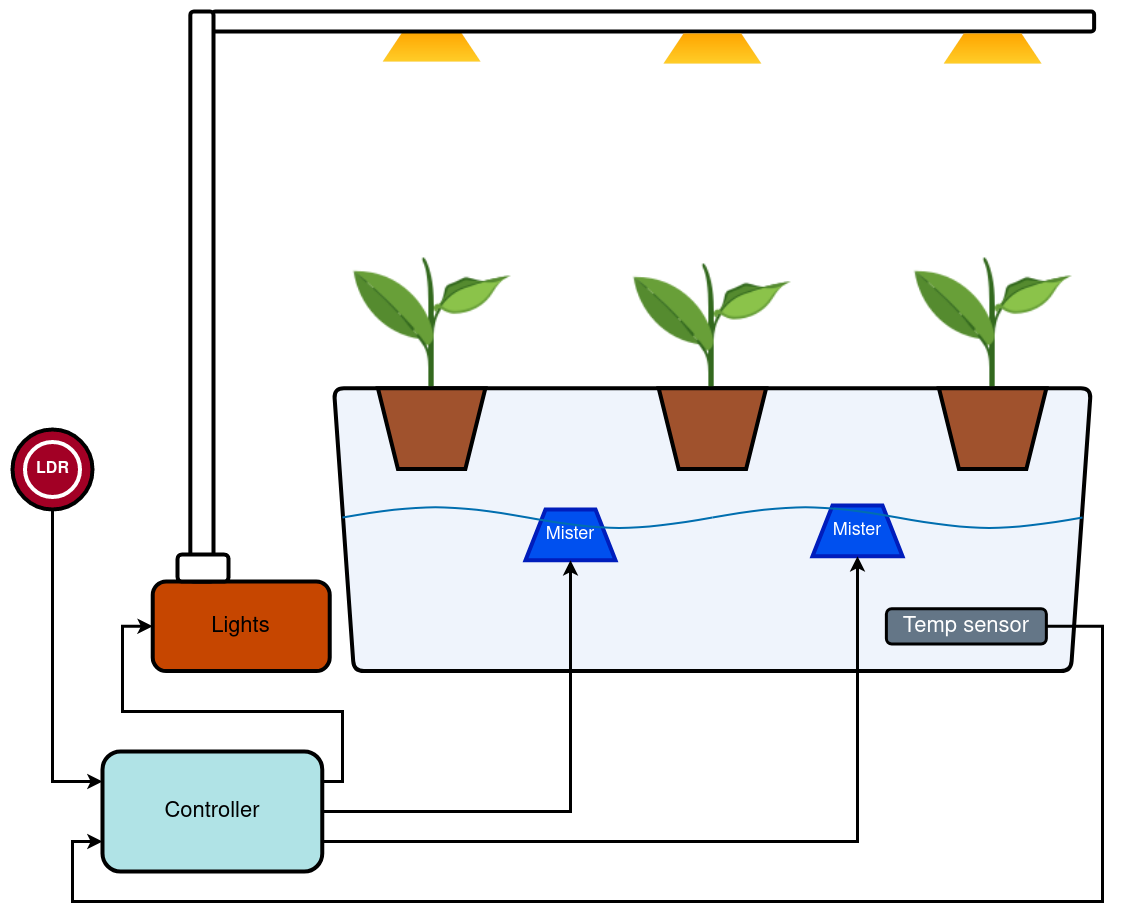
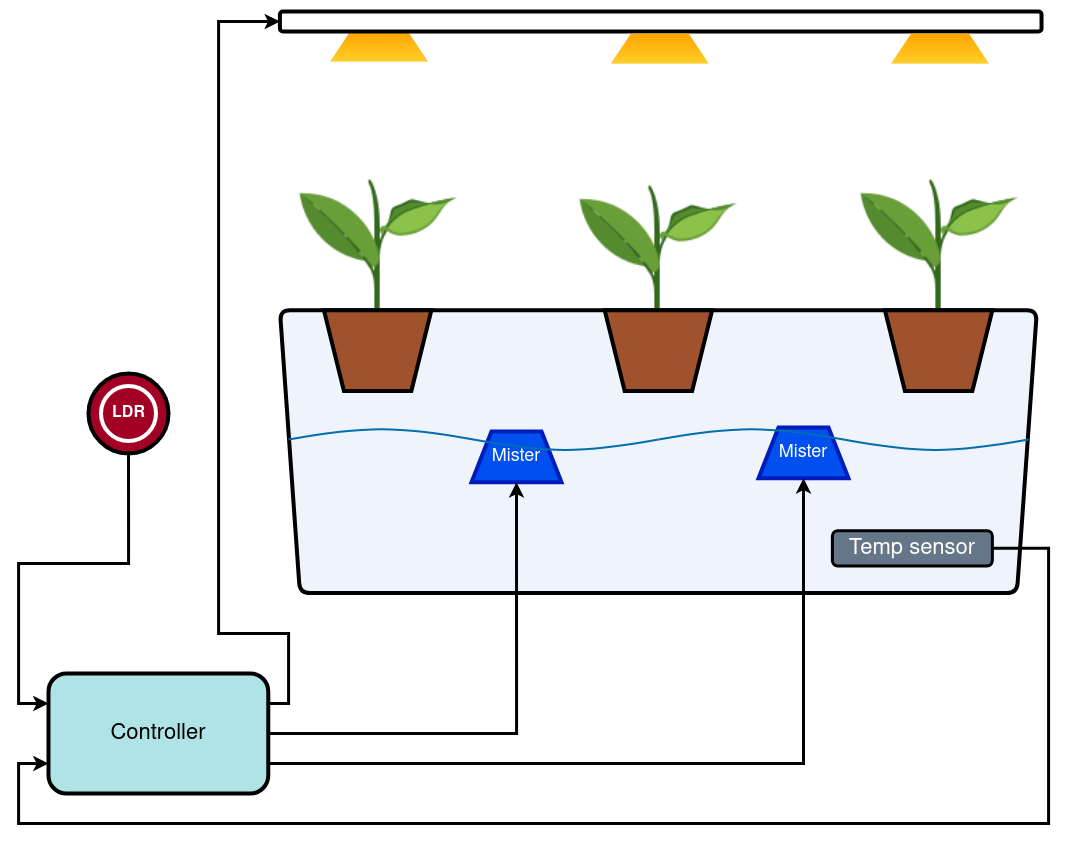
block diag update + added parts update

Changed region(s): [[0.0, 0.0, 0.9878, 0.9846]]

diff --git a/README.md b/README.md
@@ -3,7 +3,7 @@
 An aeroponics/fogponics planter to monitor and study crop growth and yeild. Has a Flutter based app to monitor daily stats.
 
 - Made to be hacked
-- Open source hardware and software with docs
+- Open source hardware and software with documentation
 
 <img src="Images/system.jpg" alt="system" width="600"/>
 
@@ -107,16 +107,6 @@ Instructions in [Docs/install.md](Docs/install.md)
 
 Check issues page on [github](https://github.com/MRo47/MistyGro/issues) for things that need to be developed/fixed and open PRs.
 
-## Appendix
+## [Part images](Docs/parts.md)
 
-<img src="Images/us_mister.jpg" alt="misters" width="300"/>
-
-Ultrasonic mister
-
-<img src="Images/ec_n_ph_meter.jpg" alt="ec and ph meter" width="300"/>
-
-EC and ph meters to manually read solution properties.
-
-<img src="Images/grow_lamp_original.jpg" alt="grow_lamp" width="300"/>
-
-original grow lamp
+Images of parts used in this project

diff --git a/Docs/parts.md b/Docs/parts.md
@@ -1,0 +1,15 @@
+# Part images
+
+These are for reference in case some of the items go out of stock at the time of purchase.
+
+<img src="../Images/us_mister.jpg" alt="misters" width="300"/>
+
+Ultrasonic mister
+
+<img src="../Images/ec_n_ph_meter.jpg" alt="ec and ph meter" width="300"/>
+
+EC and ph meters to manually read solution properties.
+
+<img src="../Images/grow_lamp_original.jpg" alt="grow_lamp" width="300"/>
+
+Original grow lamp
